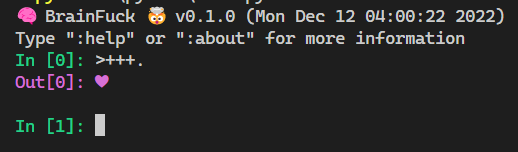
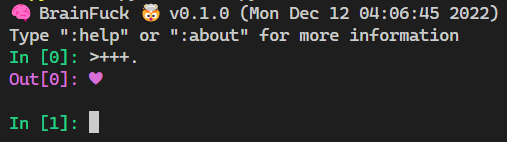
Add image to README

diff --git a/README.md b/README.md
@@ -2,7 +2,9 @@
 
 [BrainFuck](https://esolangs.org/wiki/Brainfuck) interpreter, implemented in Python.
 
-No external dependencies needed beyond the Python standard library.
+![./pyfucc-repl-thumbnail-Dec-12-2022.png](pyfucc-repl-thumbnail-Dec-12-2022.png)
+
+> No external dependencies needed beyond the Python standard library.
 
 ## BrainFuck
 
